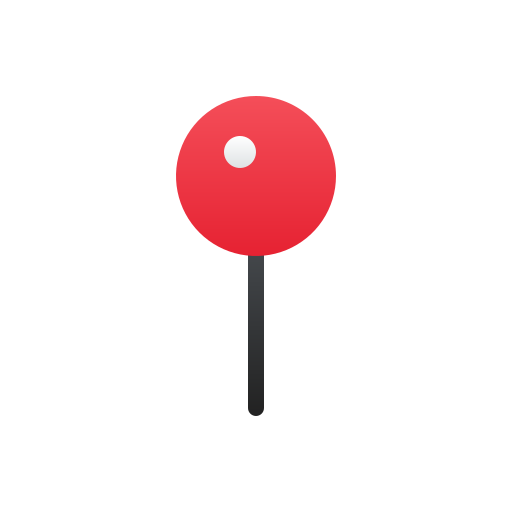
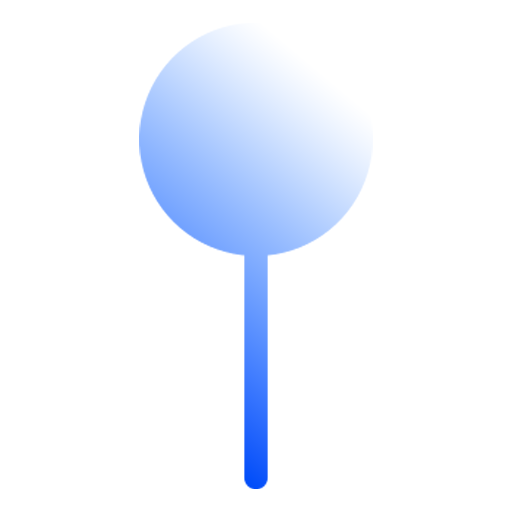
chore: update pin.png

Changed region(s): [[0.25, 0.0625, 0.7188, 0.9688]]

diff --git a/therainvillas/src/components/VillaFilter.vue b/therainvillas/src/components/VillaFilter.vue
@@ -87,10 +87,10 @@
             <h3 class="vf-card__title">{{ villa.name }}</h3>
             <p class="vf-card__desc">{{ villa.description }}</p>
             <ul class="vf-card__stats">
-              <li><span class="vf-card__stat-icon"><img src="/icon/bed.png" alt="" /></span> <strong>{{ villa.bedrooms }}</strong> kamar</li>
-              <li><span class="vf-card__stat-icon"><img src="/icon/bathtub.png" alt="" /></span> <strong>{{ villa.bathrooms }}</strong> mandi</li>
-              <li><span>👥</span> <strong>{{ villa.capacity }}</strong> tamu</li>
-              <li><span>🅿</span> <strong>{{ villa.parking }}</strong> parkir</li>
+              <li><span class="vf-card__stat-icon"><img src="/icon/bedroom.png" alt="" /></span> <strong>{{ villa.bedrooms }}</strong> kamar</li>
+              <li><span class="vf-card__stat-icon"><img src="/icon/bathroom.png" alt="" /></span> <strong>{{ villa.bathrooms }}</strong> mandi</li>
+              <li><span class="vf-card__stat-icon"><img src="/icon/grup.png" alt="" /></span> <strong>{{ villa.capacity }}</strong> tamu</li>
+              <li><span class="vf-card__stat-icon"><img src="/icon/parking.png" alt="" /></span> <strong>{{ villa.parking }}</strong> parkir</li>
             </ul>
             <div class="vf-card__tags">
               <span v-for="tag in villaAmenities(villa).slice(0, 4)" :key="tag" class="vf-card__tag">{{ tag }}</span>
